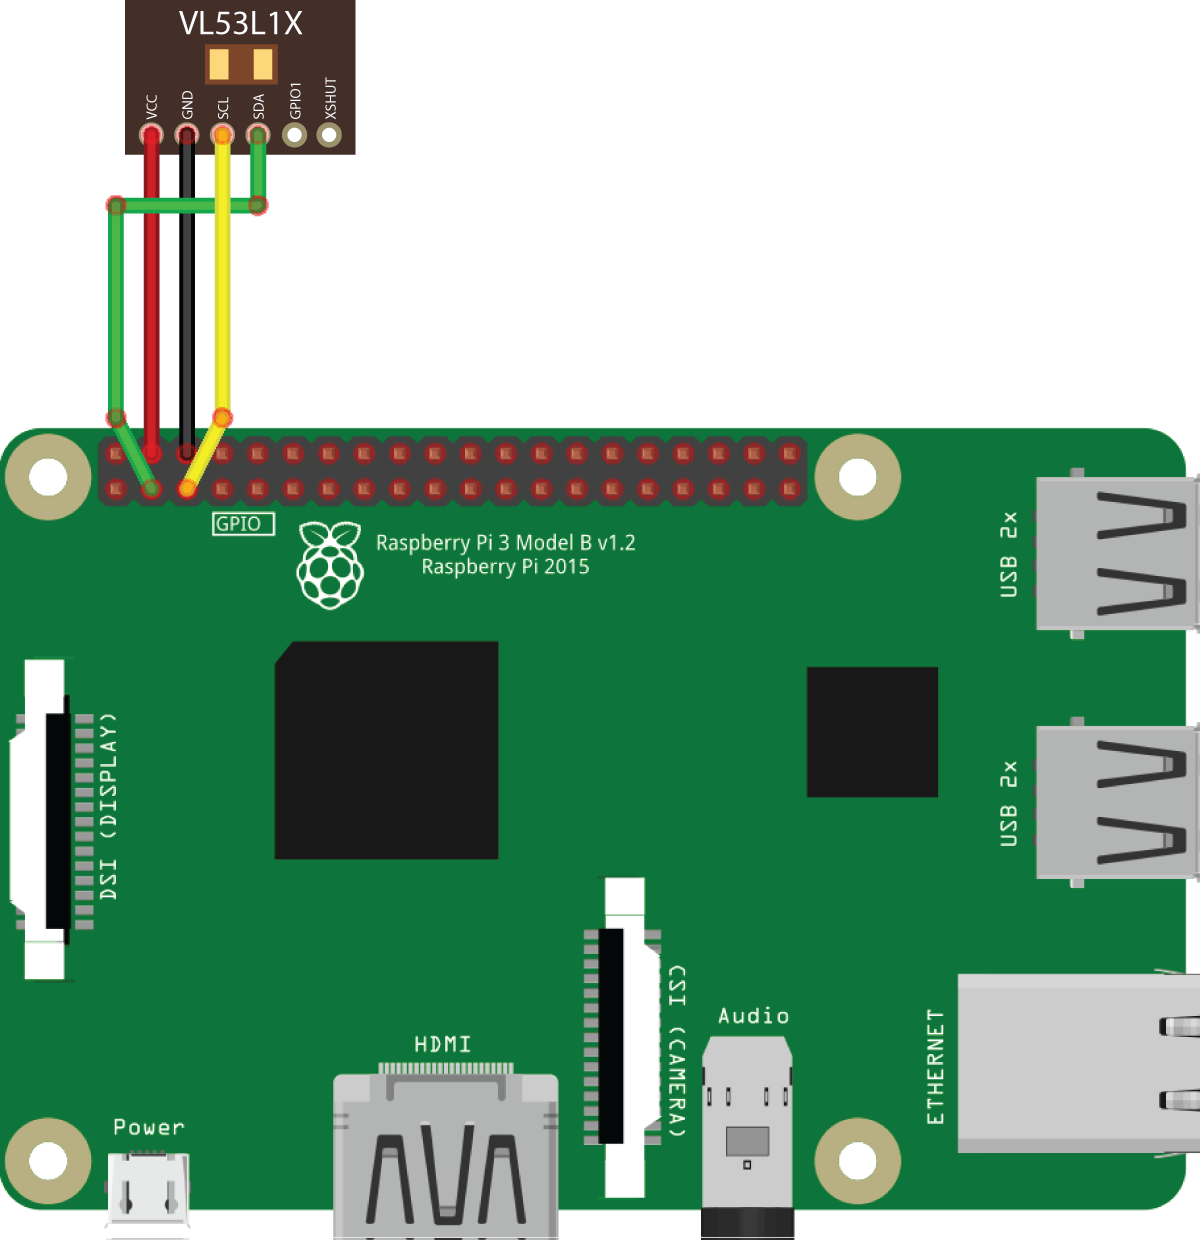
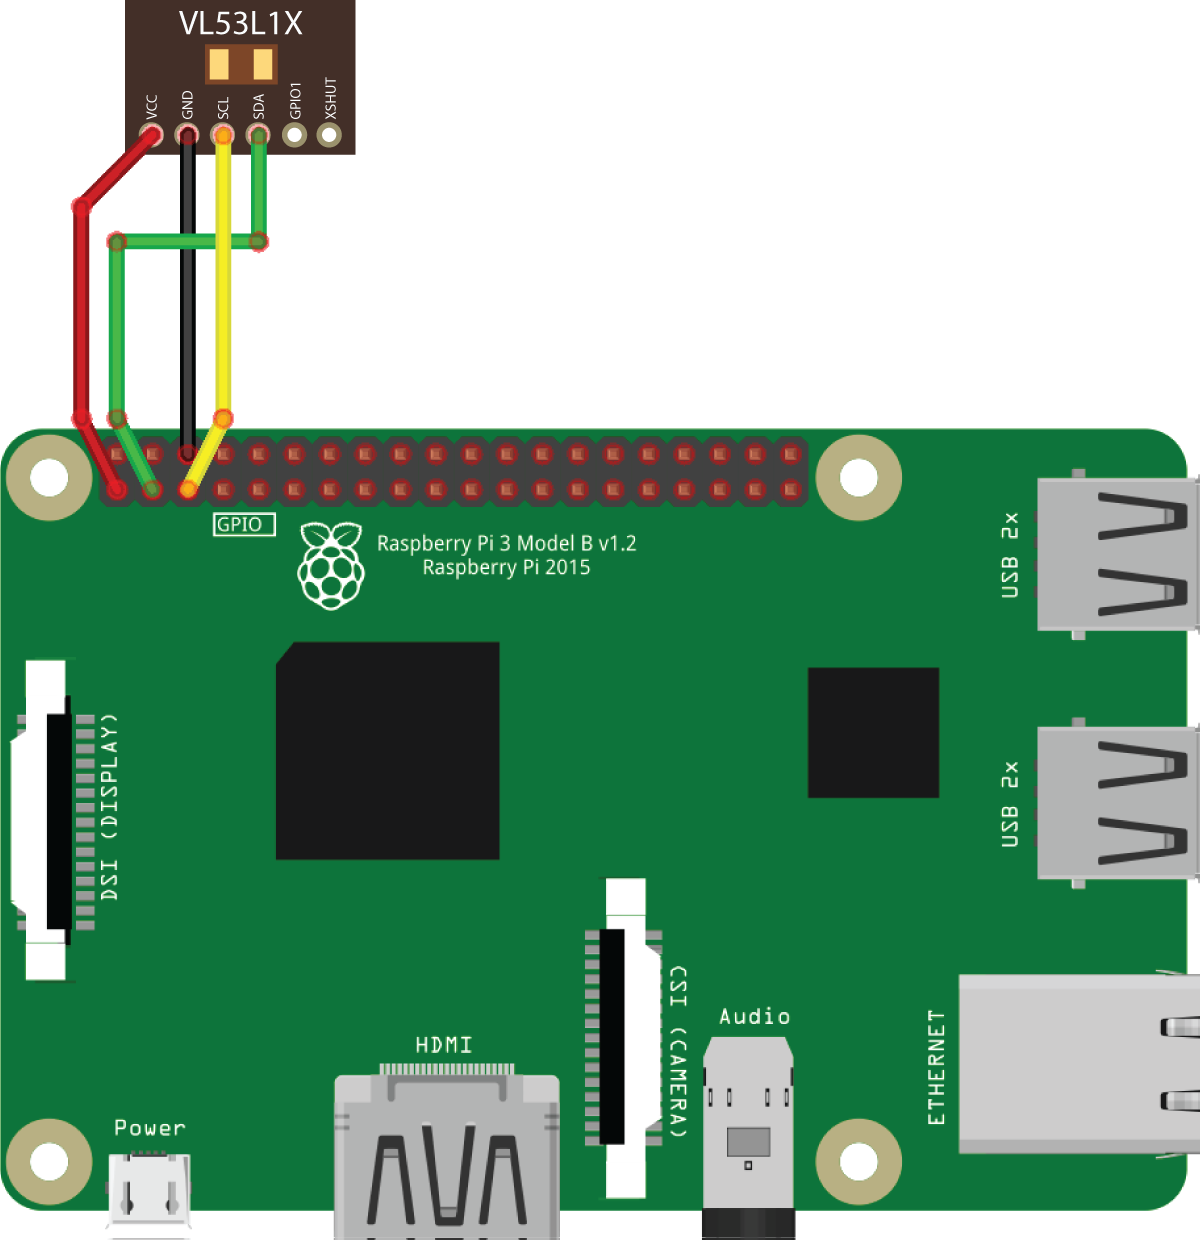
Fix docs

diff --git a/docs/ru/laser.md b/docs/ru/laser.md
@@ -8,9 +8,11 @@
 
 ### Подключение к Raspberry Pi
 
-Подключите дальномер по интерфейсу I²C к пинам 5V, GND, SCL и SDA:
+Подключите дальномер по интерфейсу I²C к пинам 3V, GND, SCL и SDA:
 
 <img src="../assets/raspberry-vl53l1x.png" alt="Подключение VL53L1X" height=600>
+
+Если обозначенный пин GND занят, можно использовать другой свободный, используя [распиновку](https://pinout.xyz).
 
 > **Hint** По интерфейсу I²C возможно подключать несколько периферийных устройств одновременно. Используйте для этого параллельное подключение.
 
